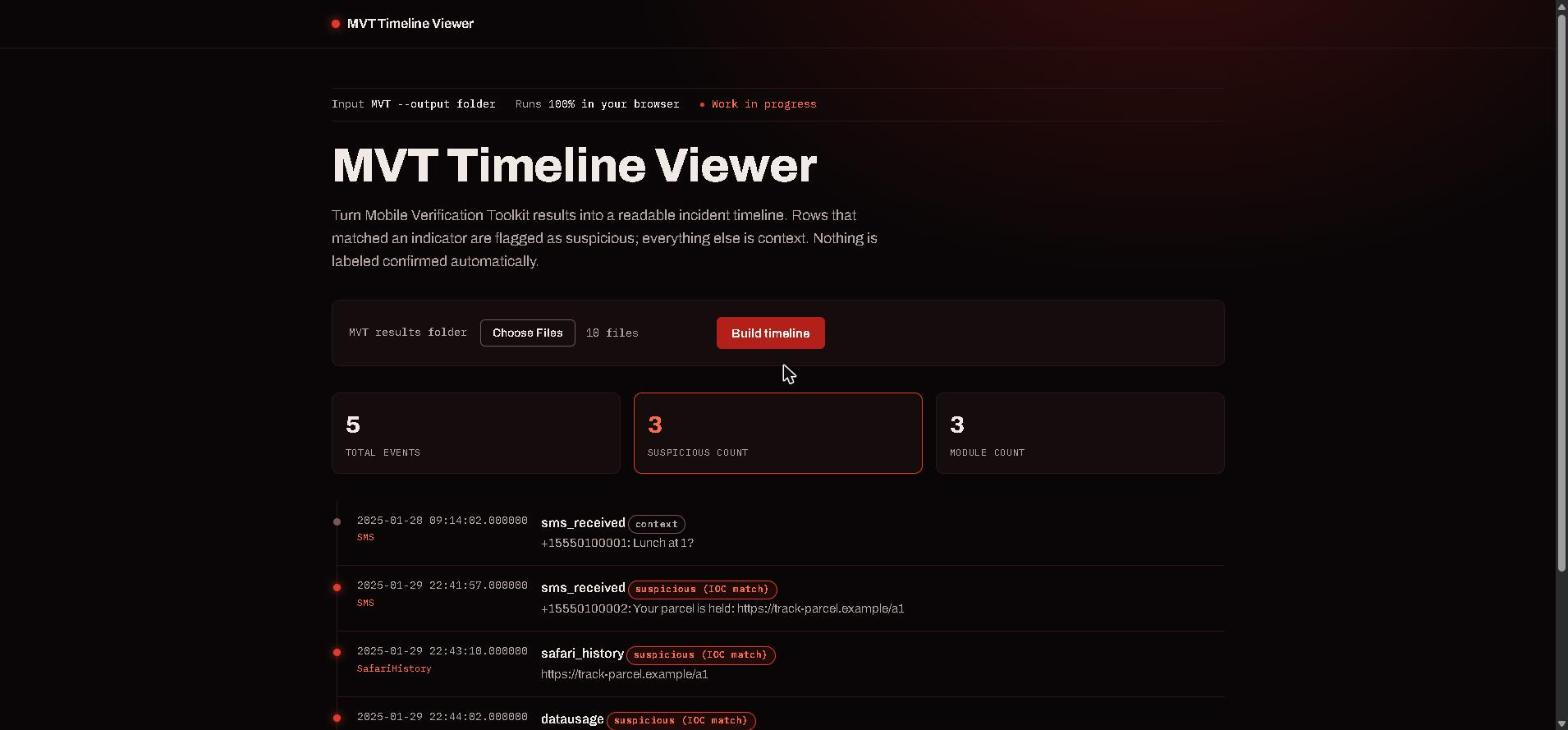
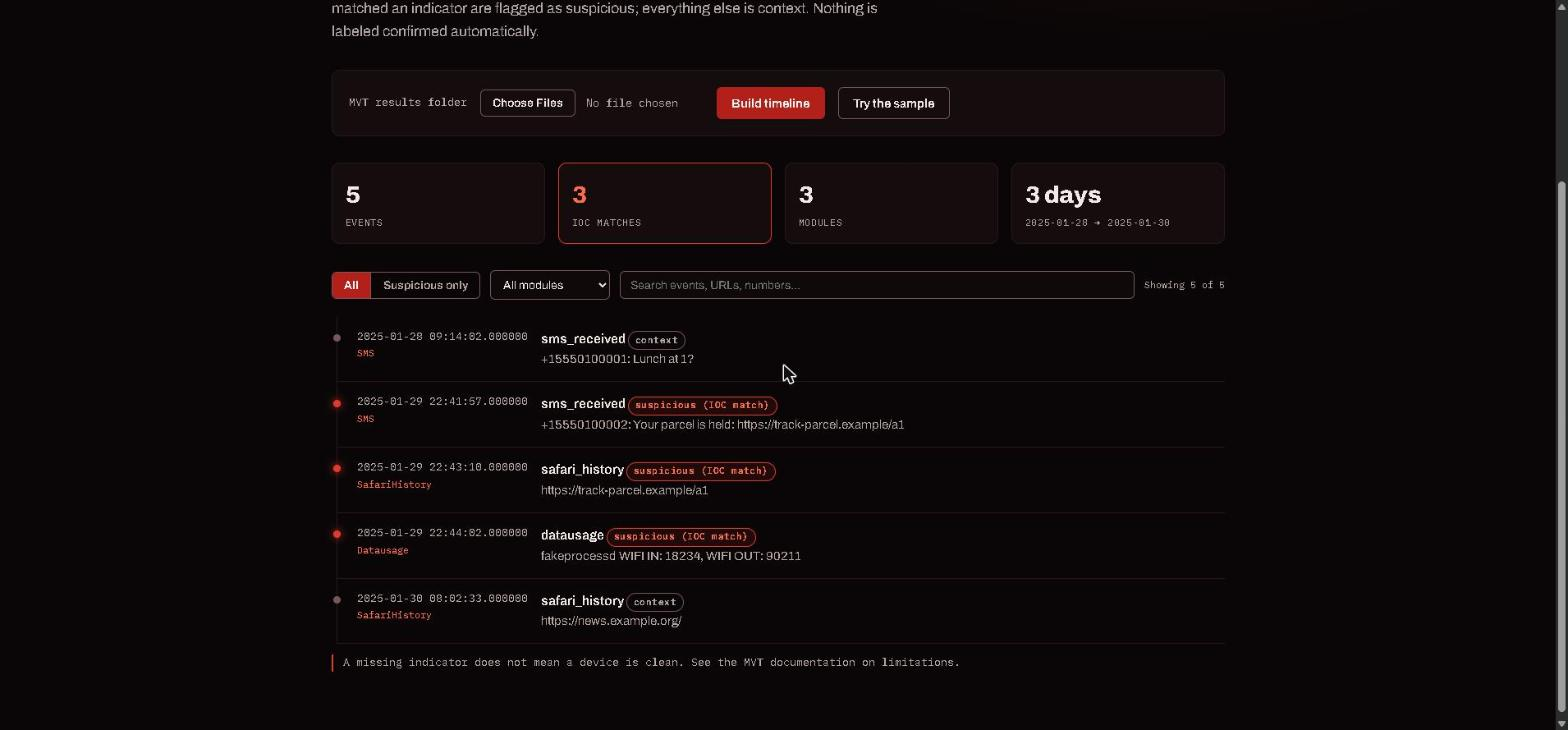
Filters, search, paging for large scans; time span stat

diff --git a/src/app.js b/src/app.js
@@ -1,0 +1,127 @@
+import { parseMvtFiles, SUSPICIOUS } from './parser/mvt.js';
+
+const PAGE = 200;
+const $ = (id) => document.getElementById(id);
+const out = $('timeline');
+const esc = (s) => String(s ?? '').replace(/[&<>"']/g, (c) => ({ '&': '&amp;', '<': '&lt;', '>': '&gt;', '"': '&quot;', "'": '&#039;' })[c]);
+
+let rows = [];      // full parsed timeline
+let view = [];      // rows after filters
+let shown = 0;      // how many of `view` are rendered
+const filters = { suspiciousOnly: false, plugin: '', q: '' };
+
+// ---------- loading ----------
+
+$('loadButton').addEventListener('click', async () => {
+  const files = [...$('fileInput').files].filter((f) => /\.(json|csv)$/i.test(f.name));
+  if (!files.length) return message('Choose the folder MVT wrote with <code>--output</code> first.');
+  message('Reading ' + files.length + ' files…');
+  const entries = await Promise.all(files.map(async (f) => [f.name, await f.text()]));
+  load(Object.fromEntries(entries));
+});
+
+const SAMPLE = './tests/sample-mvt-data/ios_backup_sample/';
+const SAMPLE_FILES = ['info.json', 'sms.json', 'sms_detected.json', 'safari_history.json', 'safari_history_detected.json',
+  'datausage.json', 'datausage_detected.json', 'timeline.csv', 'timeline_detected.csv'];
+$('sampleButton').addEventListener('click', async () => {
+  const entries = await Promise.all(SAMPLE_FILES.map(async (n) => [n, await (await fetch(SAMPLE + n)).text()]));
+  load(Object.fromEntries(entries));
+});
+
+function load(files) {
+  const result = parseMvtFiles(files);
+  if (!result.timeline.length) {
+    return message('No <code>timeline.csv</code> found. Pick the folder MVT wrote with <code>--output</code>.' + errors(result));
+  }
+  rows = result.timeline;
+  Object.assign(filters, { suspiciousOnly: false, plugin: '', q: '' });
+  renderShell(result);
+  apply();
+}
+
+// ---------- rendering ----------
+
+function message(html) {
+  rows = [];
+  out.innerHTML = '<p class="note">' + html + '</p>';
+}
+
+const errors = (r) => r.errors.length ? '<br>Skipped: ' + r.errors.map(esc).join('; ') : '';
+
+function renderShell(result) {
+  const suspicious = rows.filter((r) => r.label === SUSPICIOUS).length;
+  const plugins = countBy(rows, (r) => r.plugin);
+  const first = rows[0].timestamp.slice(0, 10), last = rows[rows.length - 1].timestamp.slice(0, 10);
+  const days = Math.max(1, Math.round((Date.parse(last) - Date.parse(first)) / 864e5) + 1);
+
+  out.innerHTML = `
+    <div class="summary">
+      ${stat(rows.length.toLocaleString(), 'events')}
+      ${stat(suspicious.toLocaleString(), 'IOC matches', 'suspicious')}
+      ${stat(Object.keys(result.modules).length, 'modules')}
+      ${stat(Number.isNaN(days) ? '?' : days.toLocaleString() + (days === 1 ? ' day' : ' days'), esc(first) + ' → ' + esc(last))}
+    </div>
+    ${suspicious ? '' : '<p class="note">No events matched an indicator. That is not proof the device is clean.</p>'}
+    <div class="filters" role="search">
+      <div class="seg" role="group" aria-label="Show">
+        <button type="button" data-susp="0" aria-pressed="true">All</button>
+        <button type="button" data-susp="1" aria-pressed="false">Suspicious only</button>
+      </div>
+      <select id="pluginFilter" aria-label="Filter by module">
+        <option value="">All modules</option>
+        ${Object.entries(plugins).sort((a, b) => b[1] - a[1]).map(([p, n]) => `<option value="${esc(p)}">${esc(p)} (${n})</option>`).join('')}
+      </select>
+      <input id="search" type="search" placeholder="Search events, URLs, numbers…" aria-label="Search">
+      <span id="count" class="count" aria-live="polite"></span>
+    </div>
+    <div class="timeline" id="rows"></div>
+    <button id="more" class="btn btn-ghost more" type="button" hidden></button>
+    ${result.errors.length ? '<p class="note">' + errors(result).slice(4) + '</p>' : ''}`;
+
+  out.querySelectorAll('.seg button').forEach((b) => b.addEventListener('click', () => {
+    filters.suspiciousOnly = b.dataset.susp === '1';
+    out.querySelectorAll('.seg button').forEach((x) => x.setAttribute('aria-pressed', String(x === b)));
+    apply();
+  }));
+  $('pluginFilter').addEventListener('change', (e) => { filters.plugin = e.target.value; apply(); });
+  let t;
+  $('search').addEventListener('input', (e) => { clearTimeout(t); t = setTimeout(() => { filters.q = e.target.value.trim().toLowerCase(); apply(); }, 150); });
+  $('more').addEventListener('click', () => renderPage());
+}
+
+function apply() {
+  const { suspiciousOnly, plugin, q } = filters;
+  view = rows.filter((r) =>
+    (!suspiciousOnly || r.label === SUSPICIOUS) &&
+    (!plugin || r.plugin === plugin) &&
+    (!q || (r.event + ' ' + r.description + ' ' + r.plugin).toLowerCase().includes(q)));
+  shown = 0;
+  $('rows').innerHTML = view.length ? '' : '<p class="note">No events match these filters.</p>';
+  renderPage();
+}
+
+function renderPage() {
+  const next = view.slice(shown, shown + PAGE);
+  $('rows').insertAdjacentHTML('beforeend', next.map(row).join(''));
+  shown += next.length;
+  $('count').textContent = `Showing ${shown.toLocaleString()} of ${view.length.toLocaleString()}`;
+  const left = view.length - shown;
+  $('more').hidden = left <= 0;
+  $('more').textContent = `Show ${Math.min(PAGE, left).toLocaleString()} more`;
+}
+
+function row(r) {
+  const s = r.label === SUSPICIOUS;
+  return `<div class="event${s ? ' suspicious' : ''}">
+    <div><div class="event-time">${esc(r.timestamp)}</div><div class="event-plugin">${esc(r.plugin)}</div></div>
+    <div><div class="event-title">${esc(r.event)} <span class="label${s ? ' suspicious' : ''}">${esc(r.label)}</span></div>
+    <div class="event-desc">${esc(r.description)}</div></div></div>`;
+}
+
+const stat = (num, label, cls = '') => `<div class="stat ${cls}"><div class="stat-num">${num}</div><div class="stat-label">${label}</div></div>`;
+
+function countBy(list, key) {
+  const m = {};
+  for (const x of list) m[key(x)] = (m[key(x)] || 0) + 1;
+  return m;
+}

diff --git a/index.html b/index.html
@@ -25,91 +25,6 @@
     <div id="timeline"></div>
     <p class="note">A missing indicator does not mean a device is clean. See the MVT documentation on limitations.</p>
   </main>
-
-  <script type="module">
-    import { parseMvtFiles } from './src/parser/mvt.js';
-
-    const fileInput = document.getElementById('fileInput');
-    const loadButton = document.getElementById('loadButton');
-    const timelineContainer = document.getElementById('timeline');
-
-    // Escape HTML to prevent XSS
-    function escapeHtml(str) {
-      if (str === null || str === undefined) return '';
-      return String(str)
-        .replace(/&/g, '&amp;')
-        .replace(/</g, '&lt;')
-        .replace(/>/g, '&gt;')
-        .replace(/"/g, '&quot;')
-        .replace(/'/g, '&#039;');
-    }
-
-    loadButton.addEventListener('click', async () => {
-      const files = Array.from(fileInput.files);
-      if (files.length === 0) {
-        timelineContainer.innerHTML = '<div class="note">Please select a folder first</div>';
-        return;
-      }
-
-      // Read every file in the folder
-      const fileContents = {};
-      for (const file of files) {
-        const text = await file.text();
-        fileContents[file.name] = text;
-      }
-
-      render(fileContents);
-    });
-
-    function render(fileContents) {
-      const result = parseMvtFiles(fileContents);
-      if (!result.timeline.length) {
-        timelineContainer.innerHTML = '<div class="note">No timeline.csv found. Pick the folder MVT wrote with --output.</div>';
-        return;
-      }
-
-      // Calculate stats
-      const totalEvents = result.timeline.length;
-      const suspiciousCount = result.timeline.filter(r => r.label === 'suspicious (IOC match)').length;
-      const moduleCount = Object.keys(result.modules).length;
-
-      // Render summary
-      let html = '<div class="summary">';
-      html += '<div class="stat"><div class="stat-num">' + totalEvents + '</div><div class="stat-label">total events</div></div>';
-      html += '<div class="stat suspicious"><div class="stat-num">' + suspiciousCount + '</div><div class="stat-label">suspicious count</div></div>';
-      html += '<div class="stat"><div class="stat-num">' + moduleCount + '</div><div class="stat-label">module count</div></div>';
-      html += '</div>';
-
-      // Render timeline
-      html += '<div class="timeline">';
-      for (const row of result.timeline) {
-        const eventClass = row.label.startsWith('suspicious') ? 'event suspicious' : 'event';
-        const labelClass = row.label.startsWith('suspicious') ? 'label suspicious' : 'label context';
-        html += '<div class="' + eventClass + '">';
-        html += '<div><div class="event-time">' + escapeHtml(row.timestamp) + '</div><div class="event-plugin">' + escapeHtml(row.plugin) + '</div></div>';
-        html += '<div><div class="event-title">' + escapeHtml(row.event) + ' <span class="' + labelClass + '">' + escapeHtml(row.label) + '</span></div><div class="event-desc">' + escapeHtml(row.description) + '</div></div>';
-        html += '</div>';
-      }
-      html += '</div>';
-
-      timelineContainer.innerHTML = html;
-    }
-
-    // Demo: load the bundled fake sample so visitors can try it without a device scan.
-    const SAMPLE = './tests/sample-mvt-data/ios_backup_sample/';
-    const SAMPLE_FILES = ['info.json', 'sms.json', 'sms_detected.json', 'safari_history.json', 'safari_history_detected.json',
-      'datausage.json', 'datausage_detected.json', 'timeline.csv', 'timeline_detected.csv'];
-    document.getElementById('sampleButton').addEventListener('click', async () => {
-      const entries = await Promise.all(SAMPLE_FILES.map(async (n) => [n, await (await fetch(SAMPLE + n)).text()]));
-      render(Object.fromEntries(entries));
-    });
-
-    // Allow Enter key to load file
-    fileInput.addEventListener('keypress', (e) => {
-      if (e.key === 'Enter') {
-        loadButton.click();
-      }
-    });
-  </script>
+  <script type="module" src="./src/app.js"></script>
 </body>
 </html>

diff --git a/src/styles/theme.css b/src/styles/theme.css
@@ -112,3 +112,19 @@ a { color: var(--ink); text-decoration-color: var(--ember); text-underline-offse
 @media (max-width: 640px) {
   .event { grid-template-columns: 1fr; gap: .25rem; }
 }
+
+/* filter bar + paging */
+.filters { display: flex; flex-wrap: wrap; gap: .75rem; align-items: center; margin: 0 0 1.25rem; }
+.seg { display: inline-flex; border: 1px solid var(--field-line); border-radius: 6px; overflow: hidden; }
+.seg button { background: transparent; color: var(--muted); border: 0; padding: .5rem .9rem; font: 600 .85rem var(--body); cursor: pointer; }
+.seg button + button { border-left: 1px solid var(--field-line); }
+.seg button[aria-pressed="true"] { background: var(--fire); color: var(--on-fire); }
+.filters select, .filters input[type="search"] {
+  background: var(--sunk); color: var(--ink); border: 1px solid var(--field-line); border-radius: 6px;
+  padding: .5rem .7rem; font: .9rem var(--body);
+}
+.filters input[type="search"] { flex: 1 1 14rem; min-width: 0; }
+.count { font-family: var(--mono); font-size: .78rem; color: var(--muted); margin-left: auto; }
+.more { margin: 1.25rem 0 0; }
+[hidden] { display: none !important; }
+code { font-family: var(--mono); font-size: .9em; color: var(--copper); }

diff --git a/README.md b/README.md
@@ -9,7 +9,9 @@ MVT checks an iPhone backup or Android device against published indicators of co
 ## What it does
 
 - Reads the folder MVT writes with `--output` (`timeline.csv`, `timeline_detected.csv`, `<module>.json`, `<module>_detected.json`, `info.json`).
-- Shows totals, then every event in time order.
+- Shows totals (events, IOC matches, modules, time span), then every event in time order.
+- Filter to suspicious events only, by module, or by free-text search (URLs, phone numbers, process names).
+- Handles large scans: 50,000 events load in well under a second, rendered 200 at a time.
 - Labels each event:
   - **suspicious (IOC match)**: the same row appears in `timeline_detected.csv`, meaning MVT matched it against an indicator.
   - **context**: everything else.
@@ -54,6 +56,7 @@ There is no build step for the viewer itself: `index.html` loads `src/parser/mvt
 
 ```
 index.html                     viewer page
+src/app.js                     UI: loading, filters, paging
 src/parser/mvt.js              pure parser: {filename: text} -> {info, modules, detected, timeline}
 src/parser/node.js             reads a folder from disk, for tests and scripts
 src/styles/theme.css           styles
